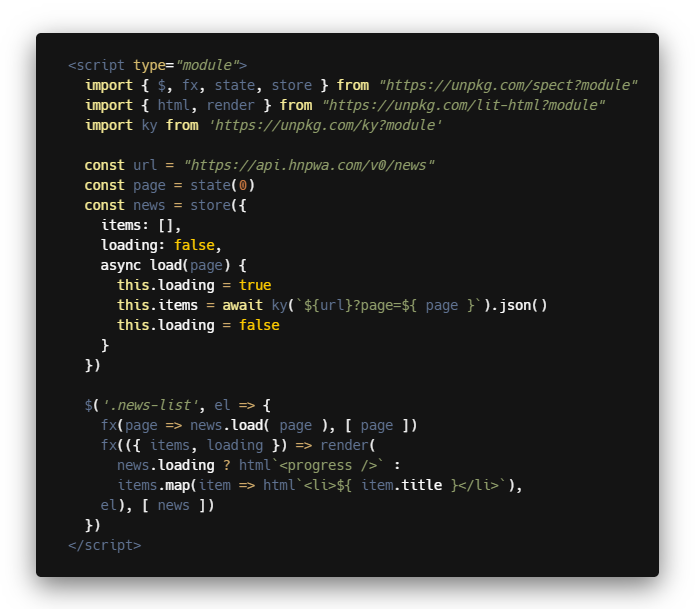
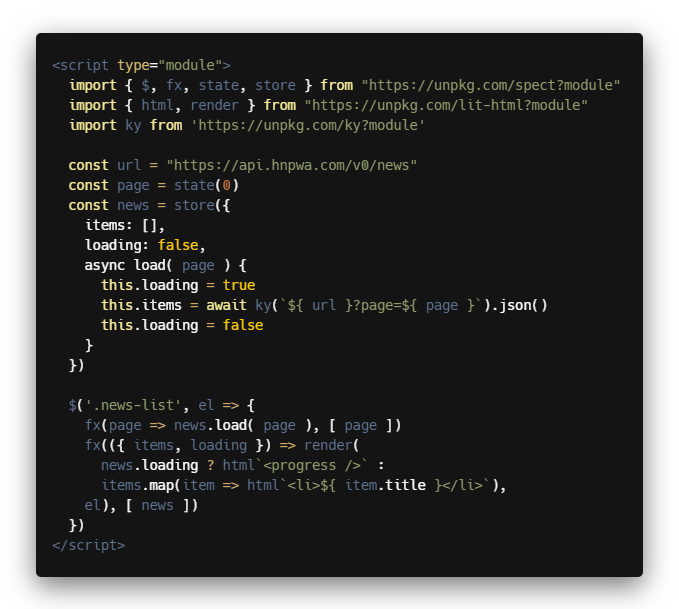
Update preview

diff --git a/readme.md b/readme.md
@@ -12,33 +12,33 @@
   <a href="https://npmjs.org/package/spect"><img alt="npm" src="https://img.shields.io/npm/v/spect"></a>
 </p>
 
-<p align="center"><img src="/preview.png" width="695"/></p>
+<p align="center"><img src="/preview.png" width="679"/></p>
 <!--
 <script type="module">
-    import { $, fx, state, store } from "https://unpkg.com/spect?module"
-    import { html, render } from "https://unpkg.com/lit-html?module"
-    import ky from 'https://unpkg.com/ky?module'
+  import { $, fx, state, store } from "https://unpkg.com/spect?module"
+  import { html, render } from "https://unpkg.com/lit-html?module"
+  import ky from 'https://unpkg.com/ky?module'
 
-    const url = "https://api.hnpwa.com/v0/news"
-    const page = state(0)
-    const news = store({
-      items: [],
-      loading: false,
-      async load(page) {
-        this.loading = true
-        this.items = await ky(`${url}?page=${ page }`).json()
-        this.loading = false
-      }
-    })
+  const url = "https://api.hnpwa.com/v0/news"
+  const page = state(0)
+  const news = store({
+    items: [],
+    loading: false,
+    async load( page ) {
+      this.loading = true
+      this.items = await ky(`${ url }?page=${ page }`).json()
+      this.loading = false
+    }
+  })
 
-    $('.news-list', el => {
-      fx(page => news.load( page ), [ page ])
-      fx(({ items, loading }) => render(
-        news.loading ? html`<progress />` :
-        items.map(item => html`<li>${ item.title }</li>`),
-      el), [ news ])
-    })
-  </script>
+  $('.news-list', el => {
+    fx(page => news.load( page ), [ page ])
+    fx(({ items, loading }) => render(
+      news.loading ? html`<progress />` :
+      items.map(item => html`<li>${ item.title }</li>`),
+    el), [ news ])
+  })
+</script>
 -->
 
 ## Installing
